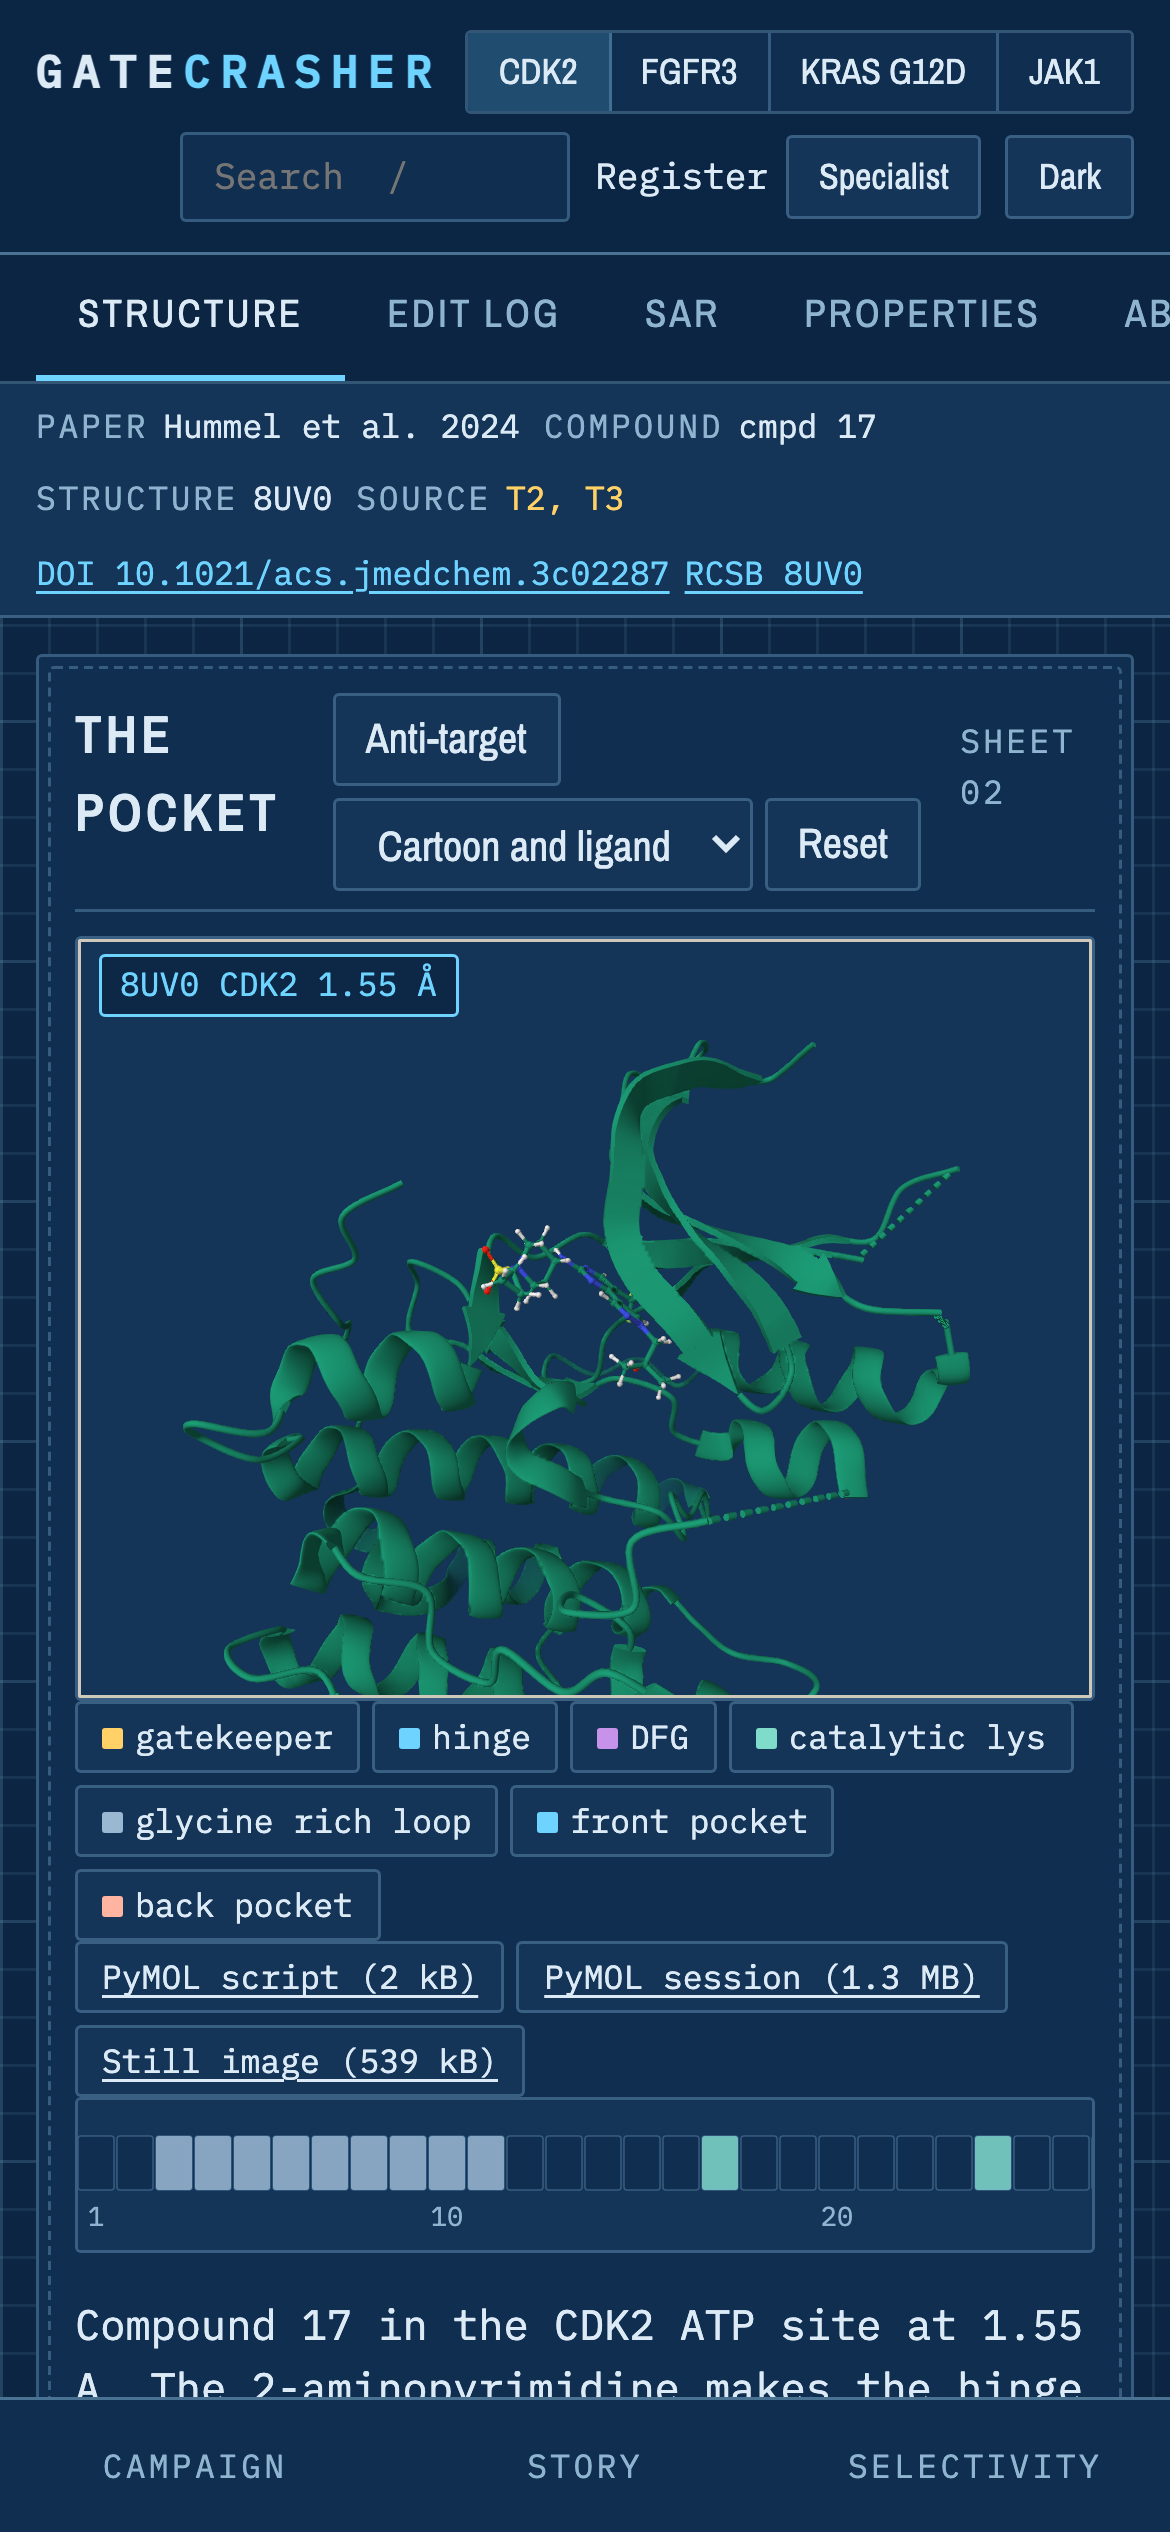
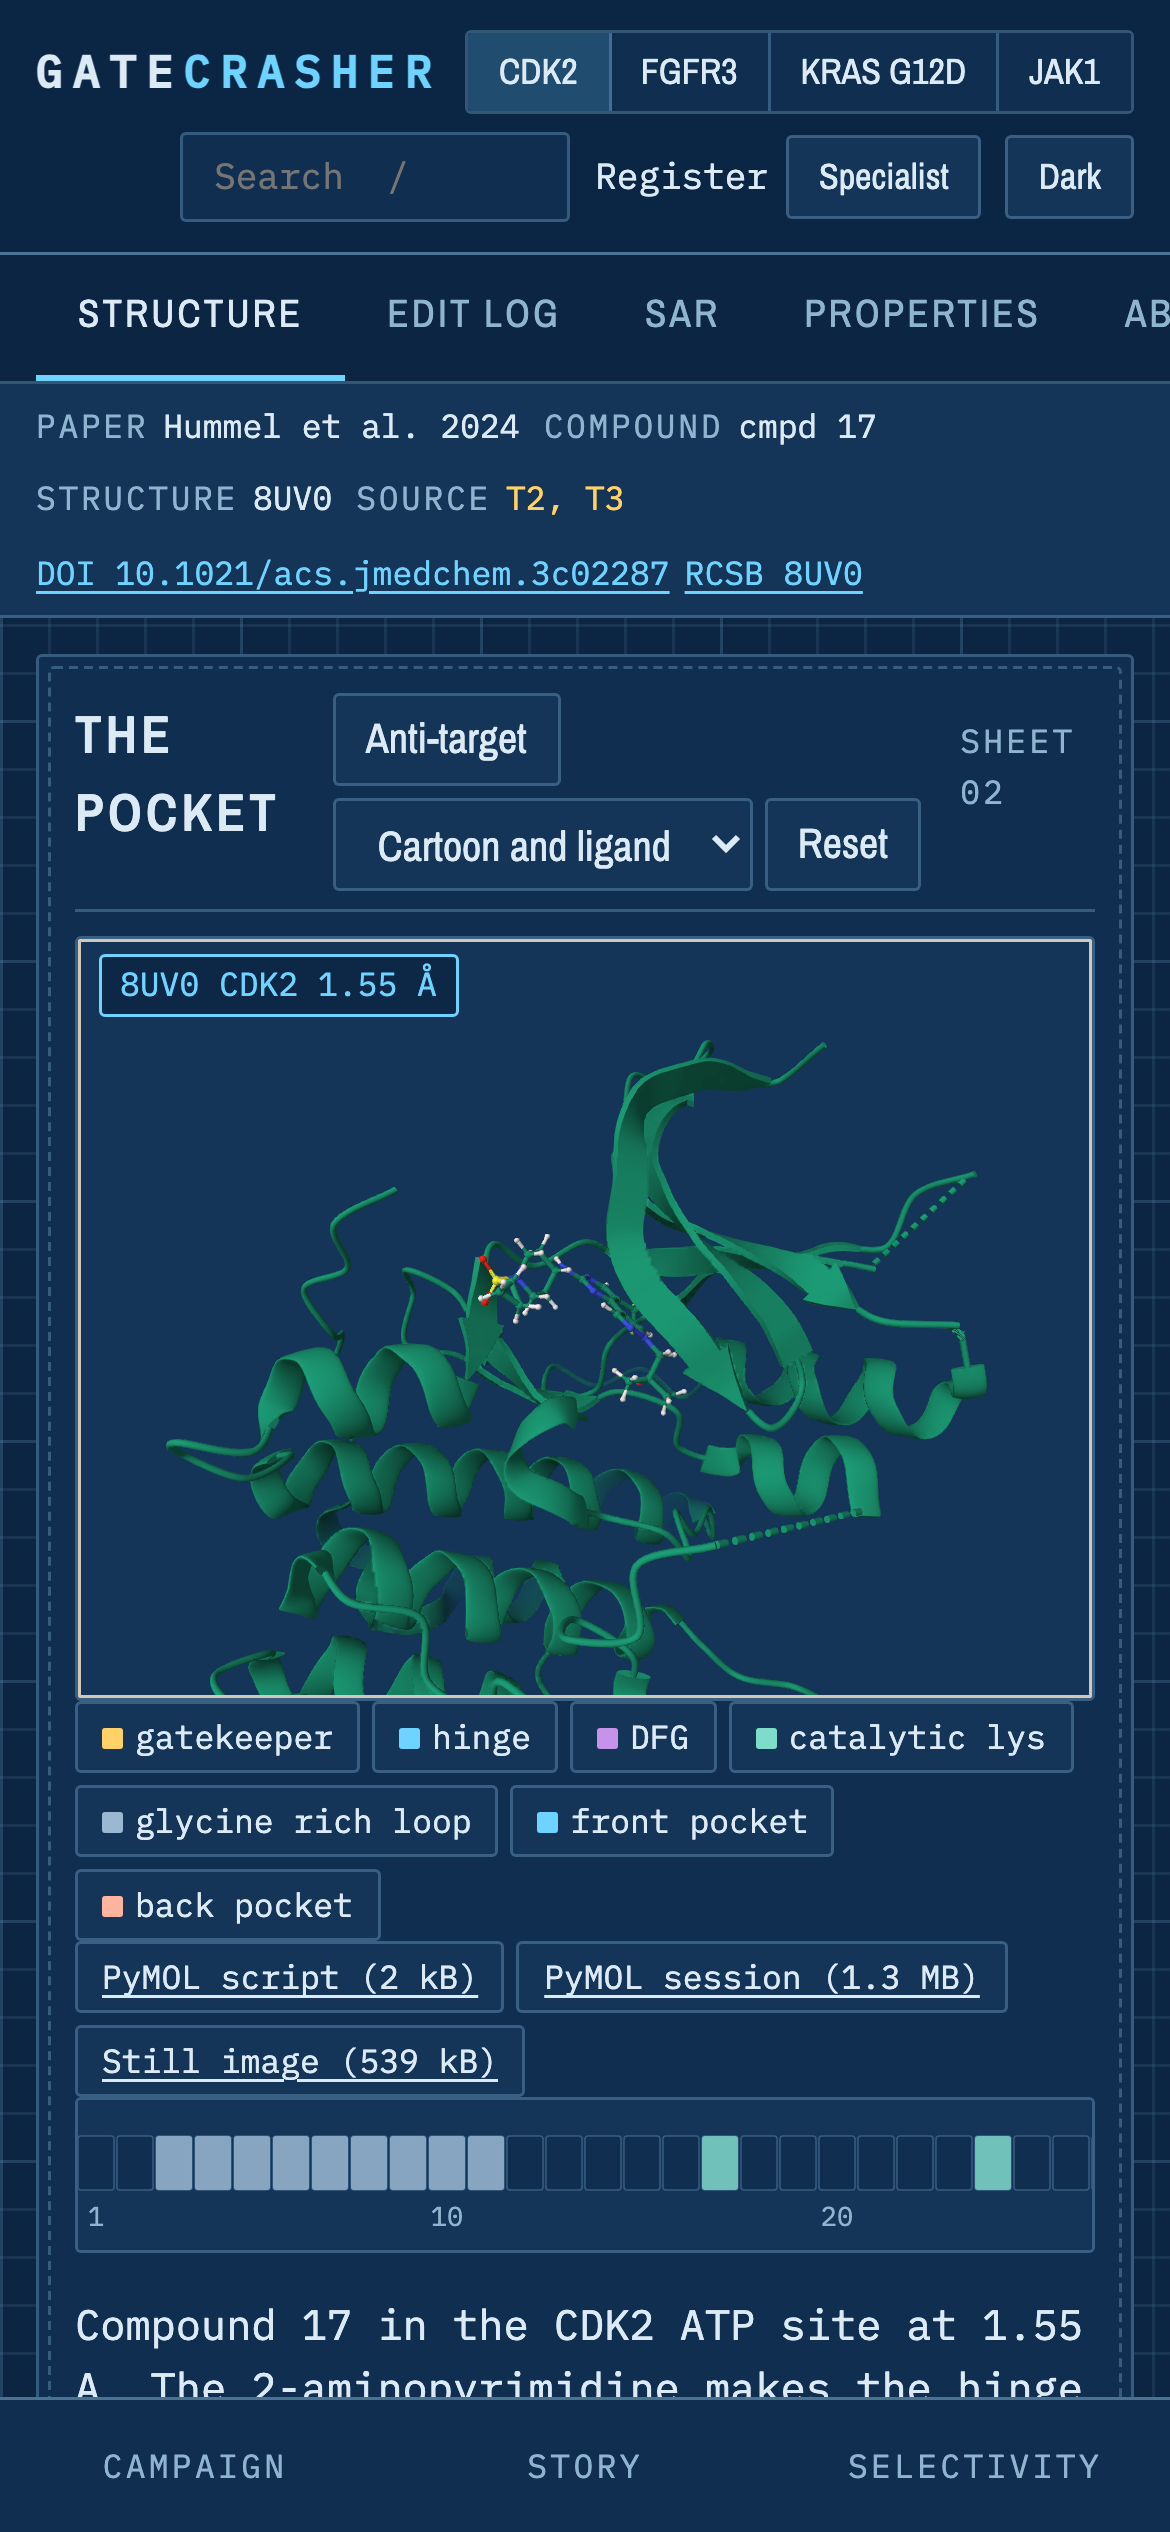
Show one copy of the protein in every viewer, not the crystal dimer
Marc's call. A deposited entry holds whatever the crystal packed into its
asymmetric unit: for 8E1X, 10PI and 10PJ that is two copies of the same
kinase, a dimer of crystallisation rather than of biology, and not what the
contacts, the ruler or the captions describe. Hetero dimers are kept.

- web/js/viewers/molstar.js: oneCopy() trims the mmCIF's atom_site loop to
  the chain the bundle describes plus any polymer chain of a DIFFERENT
  entity, before Mol* parses it, so the viewer measures and highlights
  exactly what it draws. On 10PI: 5744 atom rows to 2775, chain B's 2459
  polymer and 510 hetero atoms gone, every other category untouched.
- The PyMOL downloads remove the other copy outright rather than hiding it,
  so `resn <code>` cannot pick up its twin and `within` cannot measure to it.
  All four papers' figures regenerated and rebundled.
- A browser check fetches the real 10PI entry and runs the filter: chains
  before {A, B}, after {A}, header sections intact. 92 checks pass.

Also drafts the MD specifications for CDK2 and KRAS (raw/*/dynamics.json):
what to simulate, what to keep (KRAS holds GDP and its magnesium), and the
claims each trajectory must support before it may ship. Marked provisional:
run length, ligand protonation and the occupancy thresholds are Marc's call.

Claude-Session: https://claude.ai/code/session_01HkDbmCTHqoA5exPm7uRHnP

Changed region(s): [[0.1538, 0.4056, 0.8615, 0.6864], [0.6462, 0.4056, 0.7077, 0.4368], [0.8, 0.4368, 0.8308, 0.468]]

diff --git a/web/js/viewers/molstar.js b/web/js/viewers/molstar.js
@@ -10,6 +10,67 @@
 
 import { loadLibrary } from '../loader.js';
 
+/* Cut an mmCIF down to one copy of the molecule: the chain this bundle describes, plus any
+ * polymer chain of a DIFFERENT entity, so a real hetero dimer survives while a second copy
+ * of the same protein does not. Filtering the text beats filtering inside Mol*: the viewer
+ * then measures, focuses and highlights exactly what it draws, and nothing downstream has to
+ * know about the discarded copy.
+ *
+ * Only the _atom_site loop is touched. Everything else in the file is left alone, and if the
+ * loop cannot be understood the original text is returned rather than a half-filtered one. */
+export function oneCopy(text, chain) {
+  const lines = text.split('\n');
+  const headerStart = lines.findIndex((line) => line.startsWith('_atom_site.'));
+  if (headerStart < 0) return text;
+
+  const columns = [];
+  let index = headerStart;
+  while (index < lines.length && lines[index].startsWith('_atom_site.')) {
+    columns.push(lines[index].trim().slice('_atom_site.'.length));
+    index += 1;
+  }
+  const authColumn = columns.indexOf('auth_asym_id');
+  const entityColumn = columns.indexOf('label_entity_id');
+  const groupColumn = columns.indexOf('group_PDB');
+  if (authColumn < 0) return text;
+
+  const rowStart = index;
+  let rowEnd = rowStart;
+  while (rowEnd < lines.length) {
+    const line = lines[rowEnd];
+    if (!line.trim() || line.startsWith('#') || line.startsWith('loop_') || line.startsWith('_')) break;
+    rowEnd += 1;
+  }
+
+  /* Values can be quoted, and an atom name such as "C1'" carries a quote of its own. */
+  const cells = (line) => line.match(/'[^']*'|"[^"]*"|\S+/g) || [];
+  const rows = lines.slice(rowStart, rowEnd).map((line) => ({ line, parts: cells(line) }));
+  const isPolymer = (parts) => groupColumn < 0 || parts[groupColumn] === 'ATOM';
+
+  let ownEntity = null;
+  const polymerEntities = new Set();
+  for (const row of rows) {
+    if (!isPolymer(row.parts)) continue;
+    const entity = entityColumn >= 0 ? row.parts[entityColumn] : null;
+    if (entity !== null) polymerEntities.add(entity);
+    if (ownEntity === null && row.parts[authColumn] === chain) ownEntity = entity;
+  }
+
+  const keep = new Set([chain]);
+  if (ownEntity !== null && entityColumn >= 0) {
+    for (const row of rows) {
+      if (!isPolymer(row.parts)) continue;
+      const entity = row.parts[entityColumn];
+      if (polymerEntities.has(entity) && entity !== ownEntity) keep.add(row.parts[authColumn]);
+    }
+  }
+
+  const kept = rows.filter((row) => keep.has(row.parts[authColumn]));
+  if (!kept.length || kept.length === rows.length) return text;
+  return [...lines.slice(0, rowStart), ...kept.map((row) => row.line), ...lines.slice(rowEnd)]
+    .join('\n');
+}
+
 const OPTIONS = {
   extensions: [],
   layoutIsExpanded: false,
@@ -98,12 +159,15 @@ export class StructureViewer {
   }
 
   /* Load a structure by URL. The format is decided from the URL and the payload, not
-   * assumed: an mmCIF served without an extension still has to load. */
-  async load(name, url, { representation = 'cartoon', colour = null } = {}) {
+   * assumed: an mmCIF served without an extension still has to load.
+   *
+   * `chain` keeps one copy of the protein: see oneCopy below. */
+  async load(name, url, { representation = 'cartoon', colour = null, chain = null } = {}) {
     const response = await fetch(url);
     if (!response.ok) throw new Error(`${url}: ${response.status}`);
-    const text = await response.text();
-    const format = /\.cif|\.bcif/i.test(url) || text.startsWith('data_') ? 'mmcif' : 'pdb';
+    const raw = await response.text();
+    const format = /\.cif|\.bcif/i.test(url) || raw.startsWith('data_') ? 'mmcif' : 'pdb';
+    const text = format === 'mmcif' && chain ? oneCopy(raw, chain) : raw;
 
     if (this.loaded.has(name)) await this.clear(name);
     const data = await this.plugin.builders.data.rawData({ data: text });

diff --git a/web/js/panels/structure.js b/web/js/panels/structure.js
@@ -101,6 +101,7 @@ export function initStructure(state) {
       + (entry.resolution_a ? ` ${entry.resolution_a} Å` : '');
     await viewer.load('target', structureUrl(entry.pdb_id), {
       representation: el.representation.value,
+      chain: entry.chain,
     });
     /* A beat, a search hit or a copied link can arrive carrying residues along with the
      * structure. Zooming to the ligand regardless threw that focus away as soon as the
@@ -162,6 +163,7 @@ export function initStructure(state) {
     el.antiLabel.textContent = `${twin.pdb_id} ${twin.contains.protein}`;
     await viewer.load('anti', structureUrl(twin.pdb_id), {
       representation: el.representation.value,
+      chain: twin.chain,
     });
     if (anti !== viewer) return;
     viewer.focusLigand();

diff --git a/tools/browser_check.py b/tools/browser_check.py
@@ -353,6 +353,39 @@ def main() -> int:
         check("Mol* loaded coordinates into a canvas",
               tab.wait_for("!!document.querySelector('#viewer-target canvas')", 40),
               "no canvas in the viewer host")
+        # A deposited entry holds whatever the crystal packed into its asymmetric unit, which
+        # for 10PI is two copies of the same kinase. The viewers show the copy the bundle
+        # describes. Tested on the real entry, through the module's own exported filter.
+        copies = tab.js("""(async () => {
+            const module = await import('./js/viewers/molstar.js');
+            const text = await (await fetch('https://files.rcsb.org/download/10PI.cif')).text();
+            const before = new Set(), after = new Set();
+            const chains = (body, into) => {
+              const lines = body.split('\\n');
+              const start = lines.findIndex((l) => l.startsWith('_atom_site.'));
+              const columns = [];
+              let i = start;
+              // '_atom_site.' is ELEVEN characters. Slicing 12 loses the first letter of
+              // every column name, indexOf('auth_asym_id') returns -1, and every row reads
+              // as undefined: the check then compares [null] with [null] and calls it a pass.
+              while (lines[i].startsWith('_atom_site.')) { columns.push(lines[i].trim().slice(11)); i += 1; }
+              const auth = columns.indexOf('auth_asym_id');
+              for (; i < lines.length; i += 1) {
+                if (!lines[i].trim() || lines[i].startsWith('#')) break;
+                into.add((lines[i].match(/'[^']*'|"[^"]*"|\\S+/g) || [])[auth]);
+              }
+            };
+            chains(text, before);
+            const filtered = module.oneCopy(text, 'A');
+            chains(filtered, after);
+            return {before: [...before].sort(), after: [...after].sort(),
+                    keptHeader: filtered.includes('_entry.id'), shorter: filtered.length < text.length};
+        })()""")
+        check("the viewer shows one copy of the protein, not the crystal dimer",
+              isinstance(copies, dict) and copies.get("after") == ["A"]
+              and len(copies.get("before") or []) > 1 and copies.get("keptHeader"),
+              str(copies)[:160])
+
         check("the pocket ruler drew its cells",
               (tab.js("document.querySelectorAll('#klifs-ruler .ruler-cell').length") or 0) >= 80,
               f"{tab.js('document.querySelectorAll(\"#klifs-ruler .ruler-cell\").length')} cells")

diff --git a/pipeline/gcrash/figures.py b/pipeline/gcrash/figures.py
@@ -62,6 +62,13 @@ def script_for(entry: dict, residues: list[dict], ligand_code: str | None) -> st
         "set ray_shadows, 0",
         "set antialias, 2",
         "",
+        "# One copy only. A deposited entry holds whatever the crystal packed into its",
+        "# asymmetric unit, which here is often two copies of the same kinase: a dimer of",
+        "# crystallisation rather than of biology. The second copy is removed outright, not",
+        "# just hidden, so a ligand selection cannot pick up its twin and `within` cannot",
+        f"# measure to it. A real hetero partner would be a different chain and kept.",
+        f"remove not (chain {chain})",
+        "",
         f"select protein_chain, {pdb_id} and polymer and chain {chain}",
         "show cartoon, protein_chain",
         "color grey80, protein_chain",

diff --git a/HARVEST.md b/HARVEST.md
@@ -109,6 +109,16 @@ the provenance of the data.
    instead of a second one, and old `#paper/story` links still land, with the story drawer
    out.
 
+13. **The viewers show one copy of the protein, not the asymmetric unit.** BUILD_SPEC does not
+   say which copy of a deposited entry to draw, and Mol\* draws whatever the file contains:
+   for 8E1X, 10PI and 10PJ that is two copies of the same kinase, a dimer of crystallisation
+   rather than of biology. Marc's call on 2026-09-14: show monomers, keep hetero dimers. The
+   mmCIF is filtered before Mol\* parses it (`oneCopy` in `web/js/viewers/molstar.js`), which
+   keeps the chain the bundle describes plus any polymer chain of a DIFFERENT entity, so a
+   real hetero partner survives the same rule. The PyMOL downloads remove the other copy
+   outright rather than hiding it, so a ligand selection cannot pick up its twin and `within`
+   cannot measure to it.
+
 ## Added here, not harvested
 
 - **OPSIN (`py2opsin`) for name-to-structure verification.** Nothing in the portfolio does
